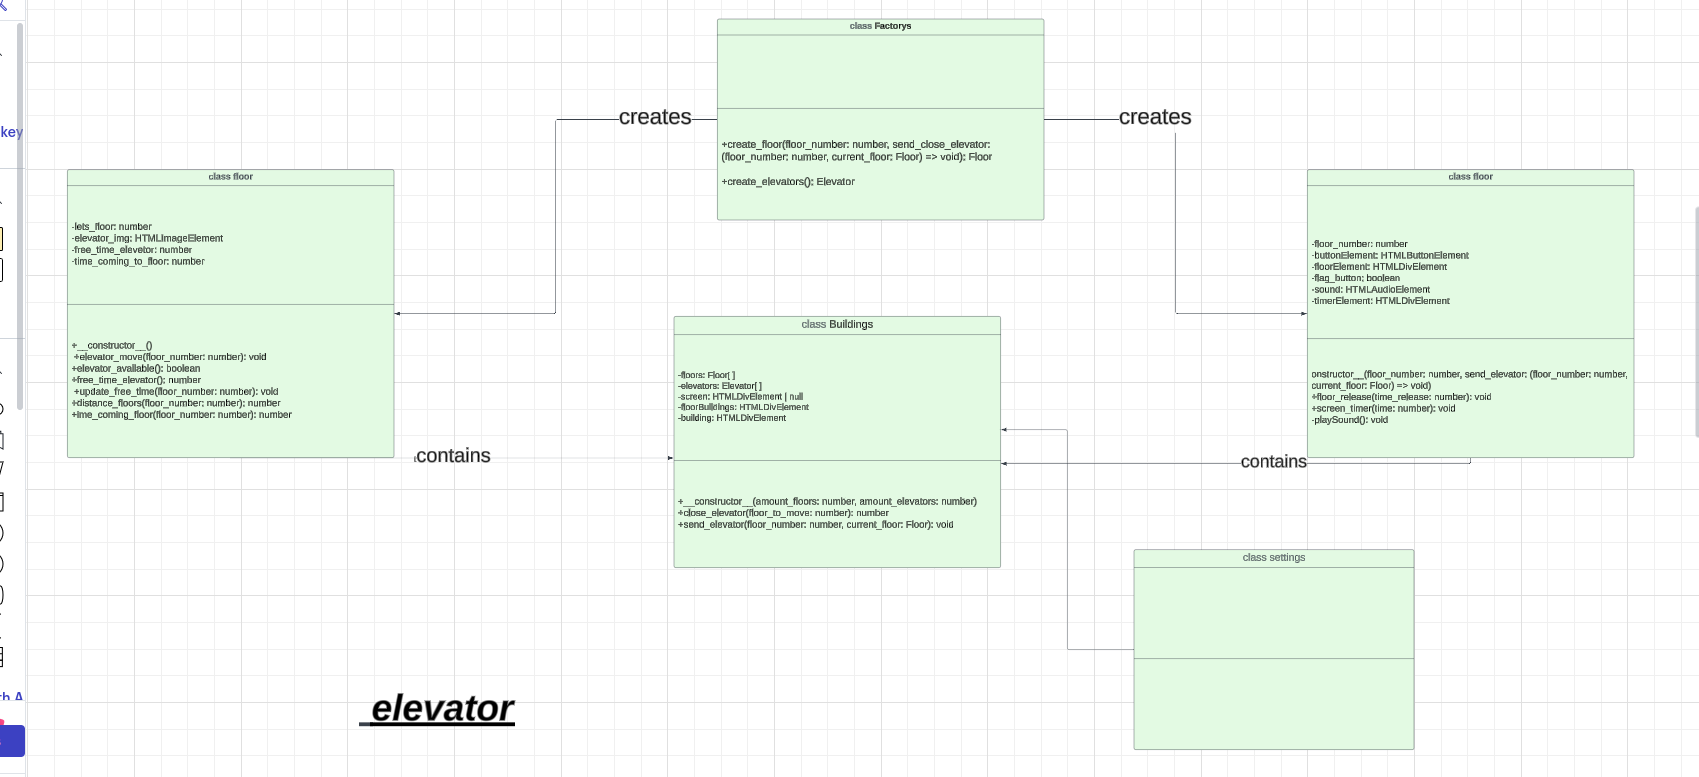
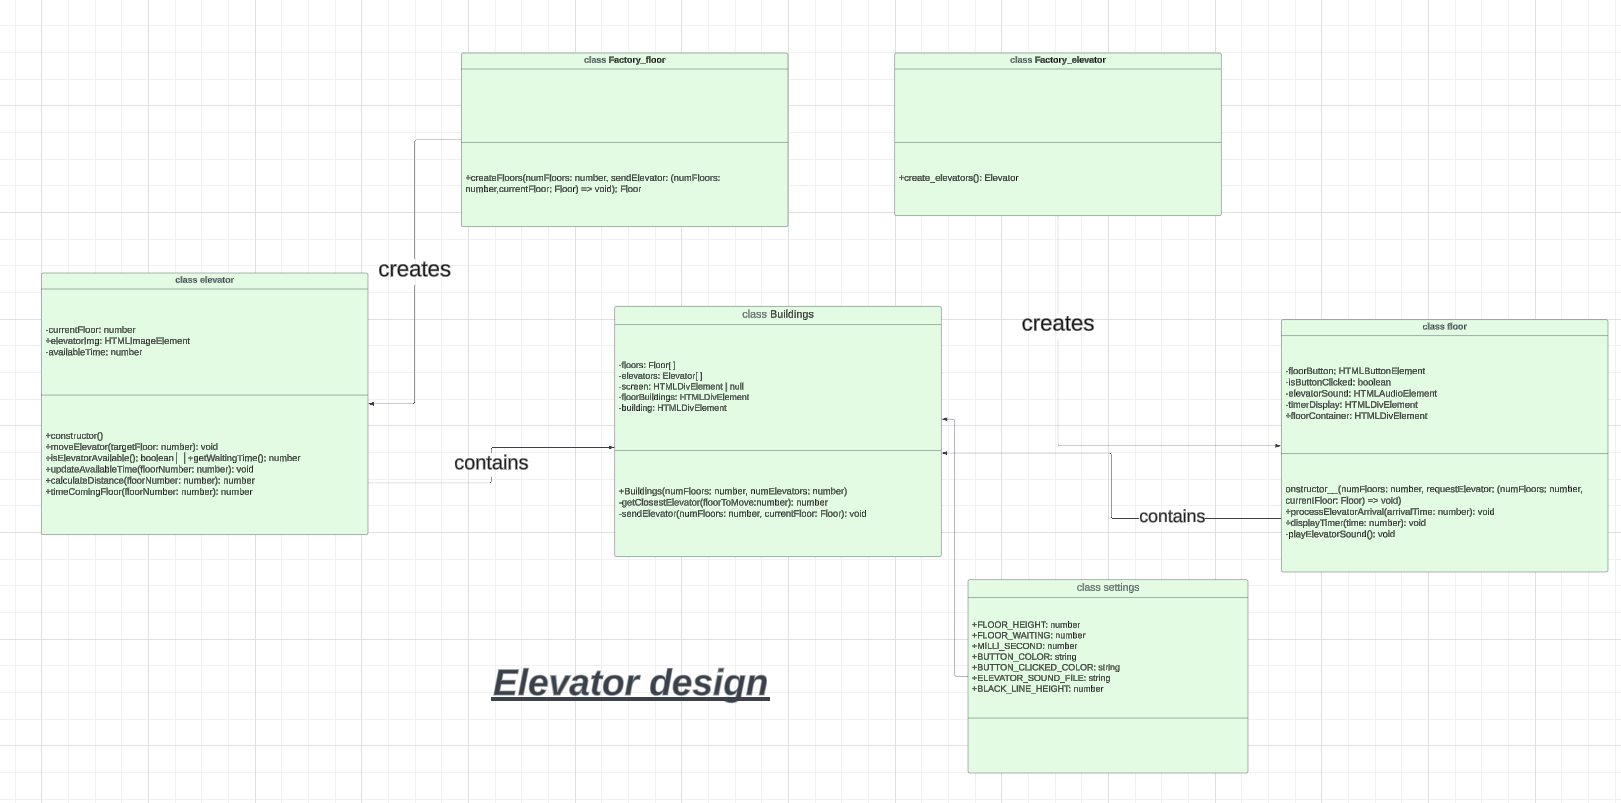
Design update and factory division into two classes

diff --git a/src/Buildings.ts b/src/Buildings.ts
@@ -1,7 +1,7 @@
 import type { Floor } from "./Floor";
 import type { Elevator } from './Elevator';
-import { Factory_elevator } from './factorys/Factory_elevators';
-import { Factory_floor } from './factorys/Factory_floors';
+import { Factory_elevators } from './factorys/Factory_elevators';
+import { Factory_floors } from './factorys/Factory_floors';
 
 class Buildings {
     private floors: Floor[];
@@ -24,7 +24,7 @@ class Buildings {
             this.screen.appendChild(this.floorBuildings);
 
             for (let i = 0; i < numFloors; i++) {
-                const floorInstance = Factory_floor.createFloors(i, this.sendElevator);
+                const floorInstance = Factory_floors.createFloors(i, this.sendElevator);
                 this.floors.push(floorInstance);
                 this.floorBuildings.appendChild(floorInstance.floorContainer);
 
@@ -40,7 +40,7 @@ class Buildings {
 
             if (numFloors > 1) {
                 for (let i = 0; i < numElevators; i++) {
-                    const elevatorInstance = Factory_elevator.create_elevators();
+                    const elevatorInstance = Factory_elevators.create_elevators();
                     this.elevators.push(elevatorInstance);
                     this.building.appendChild(elevatorInstance.elevatorImg);
                 }

diff --git a/src/Floor.ts b/src/Floor.ts
@@ -1,7 +1,6 @@
 import { Settings } from './Settings';
 
 export class Floor {
-    private numFloors: number;
     private floorButton: HTMLButtonElement;
     private isButtonClicked: boolean;
     private elevatorSound: HTMLAudioElement;
@@ -9,7 +8,6 @@ export class Floor {
     public floorContainer: HTMLDivElement;
 
     constructor(numFloors: number, requestElevator: (numFloors: number, currentFloor: Floor) => void) {
-        this.numFloors = numFloors;
         this.floorContainer = document.createElement("div");
         this.floorContainer.className = "floor";
         this.floorButton = document.createElement("button");

diff --git a/src/Elevator.ts b/src/Elevator.ts
@@ -2,14 +2,12 @@ import { Settings } from "./Settings";
 
 export class Elevator {
     private currentFloor: number;
+    private availableTime: number;
     elevatorImg: HTMLImageElement;
-    availableTime: number;
-    travelTime : number;
 
 
     constructor() {
         this.availableTime = Date.now();
-        this.travelTime = 0
         this.currentFloor = 0;
         this.elevatorImg = document.createElement("img");
         this.elevatorImg.src = 'elv.png';

diff --git a/src/factorys/Factory_floors.ts b/src/factorys/Factory_floors.ts
@@ -1,8 +1,8 @@
 import { Floor } from '../Floor';
 
-export class Factory_floor {
-    static createFloors(numFloors: number, sendCloseElevator: (numFloors: number, currentFloor: Floor) => void) {
-        return new Floor(numFloors, sendCloseElevator);
+export class Factory_floors {
+    static createFloors(numFloors: number, sendElevator: (numFloors: number, currentFloor: Floor) => void) {
+        return new Floor(numFloors, sendElevator);
     }
     
-}
+} 

diff --git a/src/factorys/Factory_elevators.ts b/src/factorys/Factory_elevators.ts
@@ -1,6 +1,6 @@
 import { Elevator } from '../Elevator';
 
-export class Factory_elevator {
+export class Factory_elevators {
     
     static create_elevators() {
         return new Elevator();
